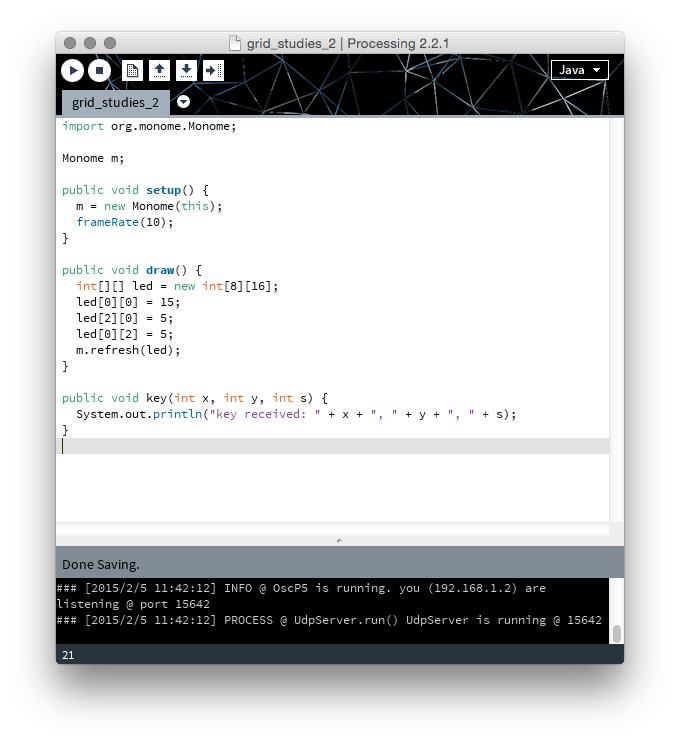
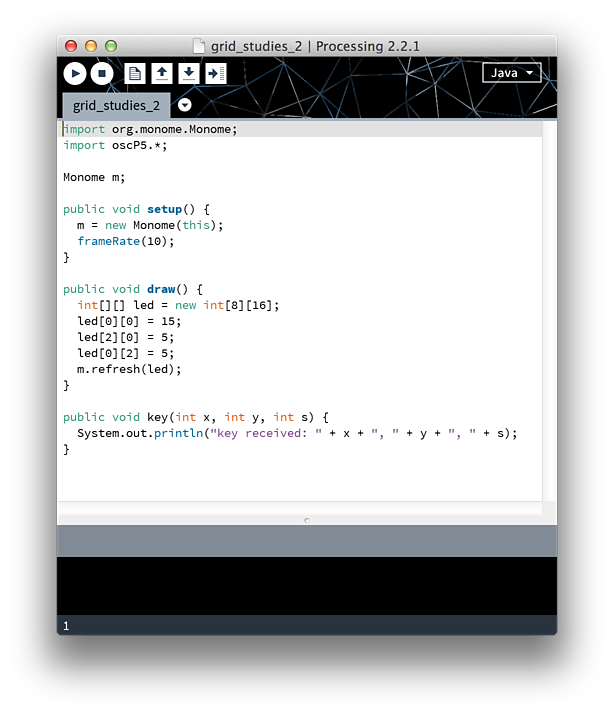
added import oscP5

Changed region(s): [[0.0619, 0.0308, 0.9283, 0.8936]]

diff --git a/index.md b/index.md
@@ -36,6 +36,7 @@ The monome-processing library facilitates easy connection and communication with
 
 ```java
 import org.monome.Monome;
+import oscP5.*;
 	
 Monome m;
 	
